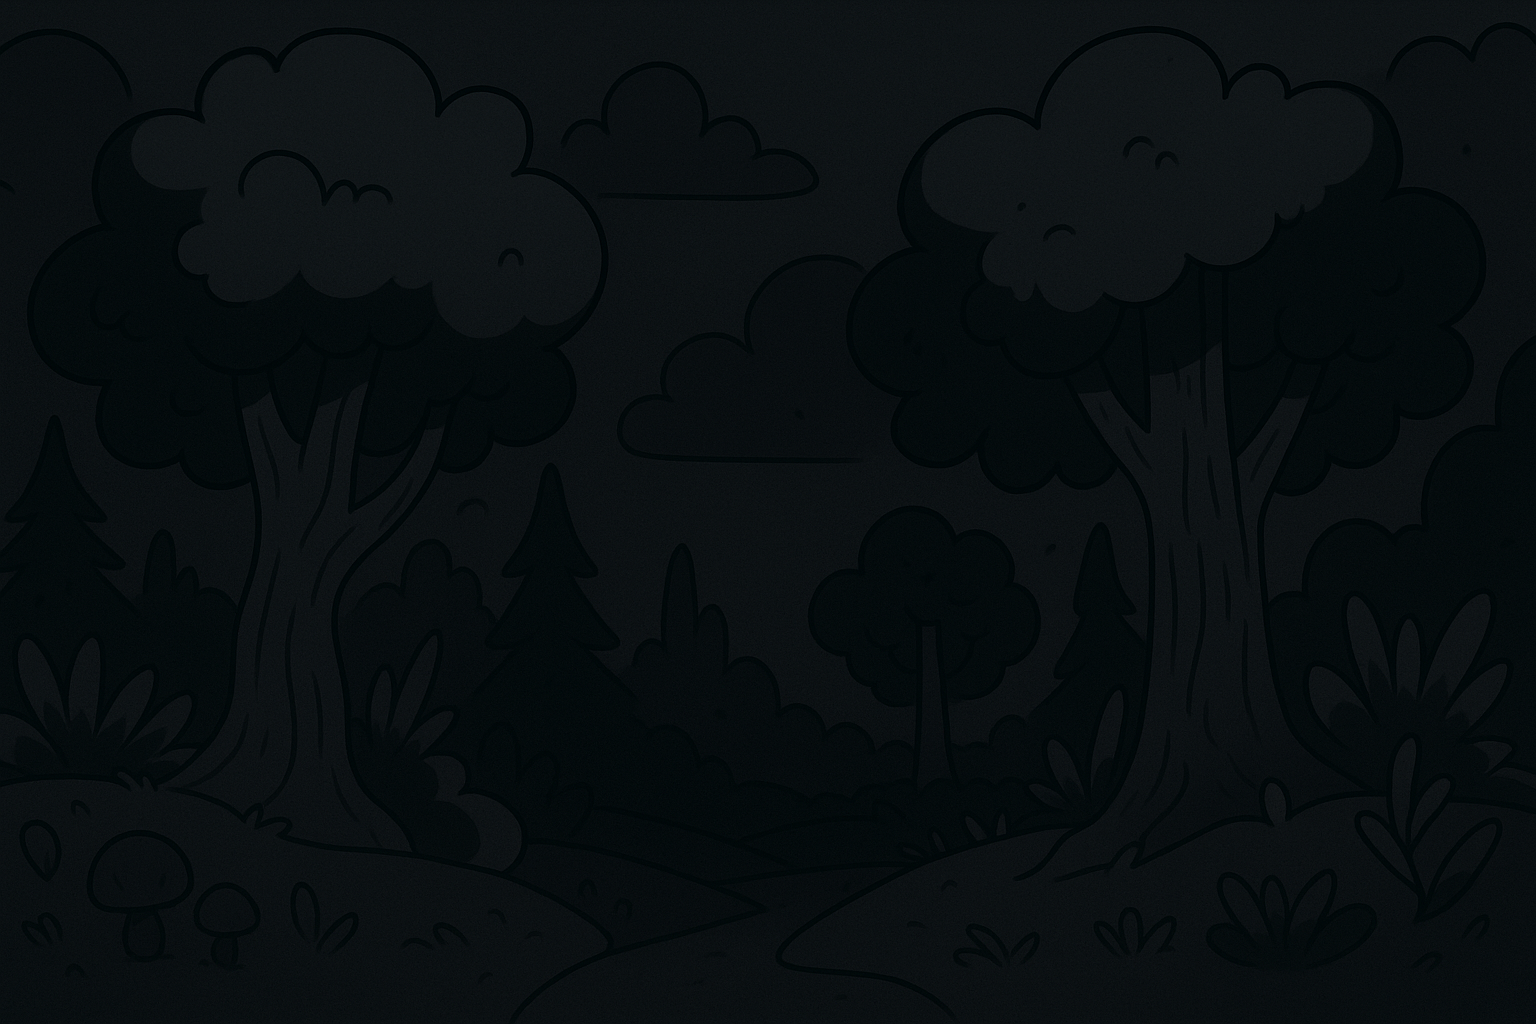
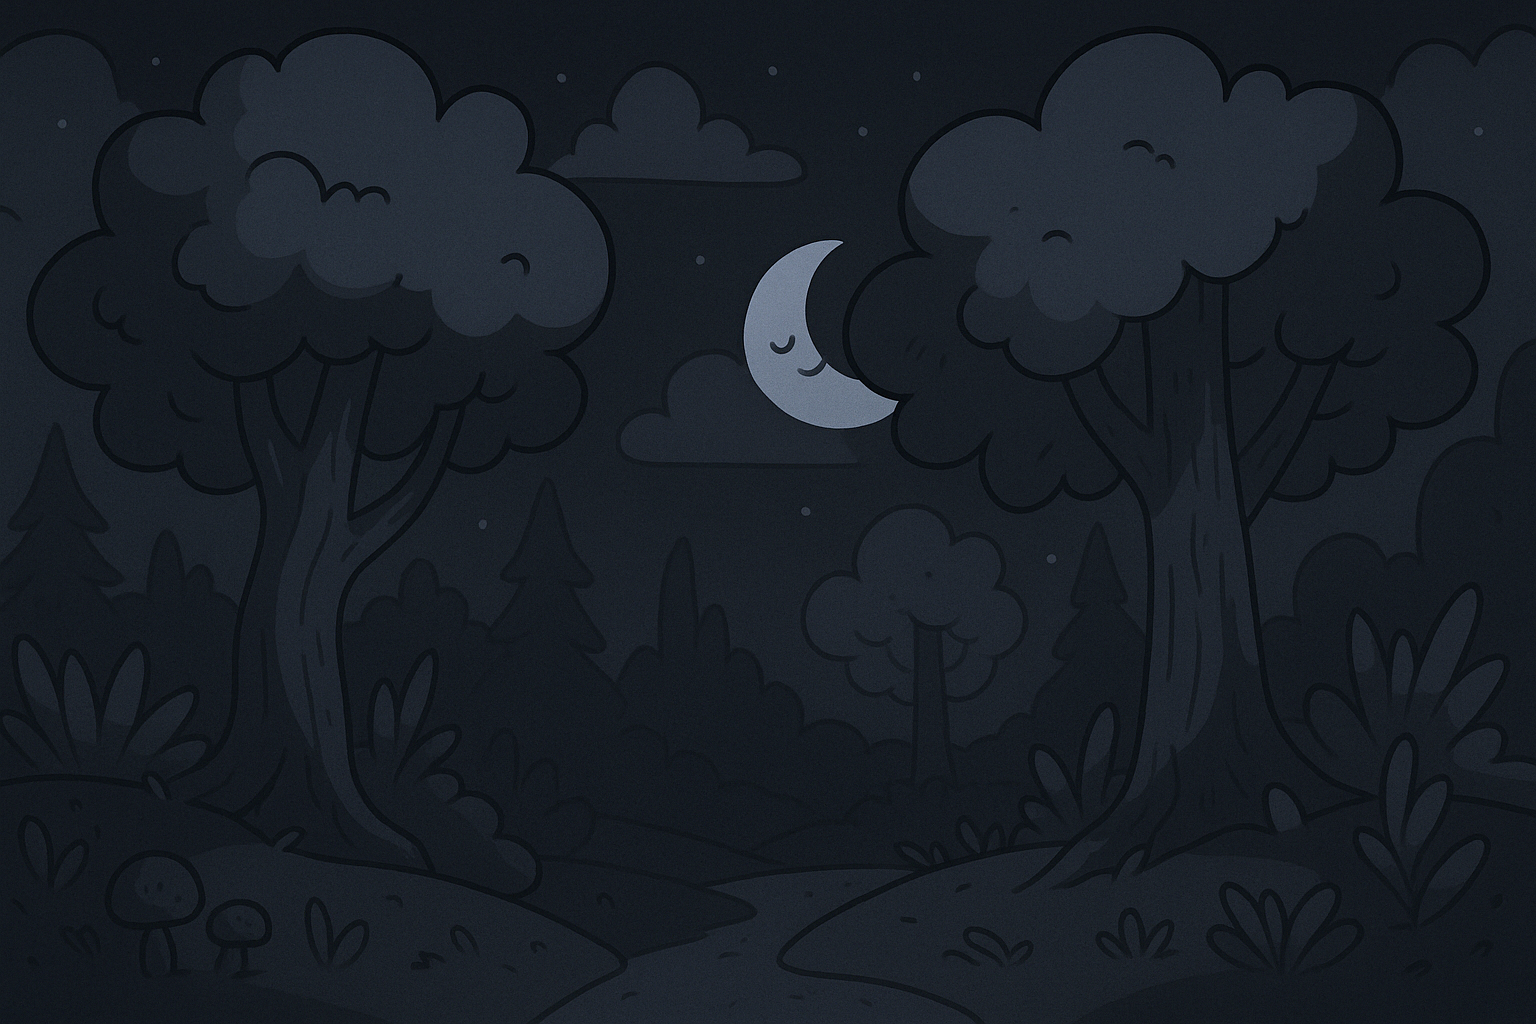
feat: Mudança no tema da aplicação!

diff --git a/frontend/src/pages/TodoList.vue b/frontend/src/pages/TodoList.vue
@@ -1,12 +1,14 @@
 <script setup lang="ts">
-import { onMounted, ref } from 'vue';
-import backgroundTodo from '../assets/backgroundTodo.png';
+import { onMounted, ref, watch } from 'vue';
+import backgroundLightTodo from '../assets/backgroundLightTodo.png';
+import backgroundDarkTodo from '../assets/backgroundDarkTodo.png';
 import { MagnifyingGlassIcon, ChevronDownIcon, TrashIcon } from '@heroicons/vue/24/outline';
 import { PlusIcon } from '@heroicons/vue/24/solid';
 import { Menu, MenuButton, MenuItems, MenuItem, Dialog } from '@headlessui/vue';
 import api from '../api/axios.js';
 import { useToast } from 'vue-toastification';
 import router from '@/router/index.js';
+import { useThemeStore } from '@/stores/theme.js';
 
 interface formCreateTodo {
   title: string;
@@ -14,6 +16,8 @@ interface formCreateTodo {
   dueData?: string | null;
 }
 
+const themeStore = useThemeStore();
+const bgImage = ref<string>();
 const toast = useToast();
 const dados = ref();
 const isOpen = ref(false);
@@ -22,6 +26,14 @@ const formCreateTodo = ref<formCreateTodo>({
   description: '',
   dueData: '',
 });
+
+watch(
+  () => themeStore.theme,
+  (newTheme) => {
+    bgImage.value = newTheme === 'light' ? backgroundLightTodo : backgroundDarkTodo;
+  },
+  { immediate: true }
+);
 
 onMounted(() => {
   searchTasks();
@@ -86,7 +98,6 @@ const handleCheckboxChange = async (event: Event, dado: any) => {
 
   try {
     await api.patch(`/todos/${dado.id}`, update);
-    toast.success('Tarefa atualizada com sucesso!');
     searchTasks();
   } catch (error) {
     toast.error('Erro ao atualizar tarefa');
@@ -102,7 +113,7 @@ function setIsOpen(value) {
   <v-app>
     <div
       class="relative flex min-h-screen w-full items-center justify-center overflow-hidden bg-cover bg-center"
-      :style="{ backgroundImage: `url(${backgroundTodo})` }"
+      :style="{ backgroundImage: `url(${bgImage})` }"
     >
       <div
         class="flex h-[100vh] w-full max-w-lg flex-col items-center rounded-xl bg-black/5 p-12 text-white backdrop-blur-lg"
@@ -114,45 +125,12 @@ function setIsOpen(value) {
         </div>
 
         <!-- Título de Tarefas -->
-        <h1 class="font-baloo mb-5 text-4xl font-semibold">Tarefas</h1>
+        <h1 class="font-baloo text-paragraph dark:text-background mb-5 text-5xl font-bold">
+          Tarefas
+        </h1>
 
         <!-- Pesquisa e Menu -->
         <div class="font-nunito flex w-full flex-row items-center justify-center gap-3">
-          <!-- Menu Dropdown -->
-          <Menu as="div" class="relative">
-            <MenuButton
-              class="inline-flex items-center rounded-md bg-black/20 px-4 py-2 text-sm font-medium text-white hover:bg-black/30 focus:outline-none"
-            >
-              Menu
-              <ChevronDownIcon class="ml-2 h-5 w-5" />
-            </MenuButton>
-            <MenuItems
-              class="absolute right-0 z-50 mt-2 w-40 origin-top-right divide-y divide-gray-100 rounded-md bg-white shadow-lg ring-1 ring-black/5 focus:outline-none"
-            >
-              <div class="px-1 py-1">
-                <MenuItem v-slot="{ active }">
-                  <button
-                    :class="[
-                      active ? 'bg-violet-500 text-white' : 'text-gray-900',
-                      'group flex w-full items-center rounded-md px-2 py-2 text-sm',
-                    ]"
-                  >
-                    Perfil
-                  </button>
-                </MenuItem>
-                <MenuItem v-slot="{ active }">
-                  <button
-                    :class="[
-                      active ? 'bg-violet-500 text-white' : 'text-gray-900',
-                      'group flex w-full items-center rounded-md px-2 py-2 text-sm',
-                    ]"
-                  >
-                    Configurações
-                  </button>
-                </MenuItem>
-              </div>
-            </MenuItems>
-          </Menu>
 
           <!-- Pesquisar -->
           <div class="relative w-full">
@@ -160,7 +138,7 @@ function setIsOpen(value) {
               class="pointer-events-none absolute top-1/2 left-3 h-5 w-5 -translate-y-1/2 transform text-white"
             />
             <input
-              class="w-full rounded-full border border-stone-500 bg-black/10 py-1 ps-10 text-white hover:border-violet-400 hover:bg-black/20 focus:bg-purple-500/10"
+              class="border-DarkOrange hover:border-paragraph dark:border-darkSecondary w-full rounded-full border bg-black/10 py-1 ps-10 text-white hover:bg-black/15 focus:border-2 focus:outline-none hover:dark:border-purple-500"
               type="text"
               placeholder="Pesquisar"
             />
@@ -172,34 +150,40 @@ function setIsOpen(value) {
           <div
             v-for="(dado, index) in dados"
             :key="index"
-            class="mb-4 flex h-[5vh] w-full flex-row items-center justify-between gap-3 rounded-xl bg-neutral-700 ps-4"
+            class="bg-background dark:bg-darkBackground mb-4 flex h-[5vh] w-full flex-row items-center justify-between gap-3 rounded-xl ps-4"
           >
             <div class="flex w-full flex-row items-center justify-start gap-3 overflow-hidden">
               <input
                 type="checkbox"
-                class="h-5 w-5 accent-purple-500"
+                class="accent-DarkOrange dark:accent-darkSecondary h-6 w-6 hover:scale-105 focus:border-0"
                 :value="dado.id"
                 :checked="dado.done"
                 @change="handleCheckboxChange($event, dado)"
               />
               <h3
-                class="font-nunito max-w-[80%] truncate overflow-hidden text-xl font-semibold whitespace-nowrap"
+                class="font-nunito text-paragraph dark:text-background max-w-[80%] truncate overflow-hidden text-xl font-semibold whitespace-nowrap"
               >
                 {{ dado.title }}
               </h3>
             </div>
-            <TrashIcon @click="handleDelete(dado)" class="me-3 h-5 w-5" />
+            <TrashIcon
+              @click="handleDelete(dado)"
+              class="me-3 h-6 w-6 cursor-pointer text-red-500 hover:scale-110 hover:text-red-600"
+            />
           </div>
         </div>
 
         <!-- Icone de Adicionar tarefas -->
         <div
-          class="absolute right-10 bottom-10 flex h-8 w-8 items-center justify-center rounded-full bg-purple-500 hover:scale-110 hover:bg-purple-600 active:bg-violet-700 sm:h-8 sm:w-8 md:h-10 md:w-10 lg:h-12 lg:w-12"
+          class="bg-secondary dark:bg-darkSecondary active:bg-paragraph absolute right-10 bottom-10 flex h-8 w-8 cursor-pointer items-center justify-center rounded-full transition hover:scale-115 sm:h-8 sm:w-8 md:h-10 md:w-10 lg:h-12 lg:w-12 active:dark:bg-violet-700"
           @click="addTask()"
         >
-          <PlusIcon class="h-8 w-8 sm:h-6 sm:w-6 md:h-8 md:w-8 lg:h-9 lg:w-9" />
+          <PlusIcon
+            class="text-paragraph dark:text-background h-8 w-8 sm:h-6 sm:w-6 md:h-8 md:w-8 lg:h-9 lg:w-9"
+          />
         </div>
 
+        <!-- Modal de adicionar tarefa -->
         <Dialog :open="isOpen" @close="setIsOpen" class="relative z-50">
           <div class="fixed inset-0 bg-black/30" aria-hidden="true" />
 
@@ -208,18 +192,21 @@ function setIsOpen(value) {
               class="flex w-full max-w-md flex-col items-center justify-center gap-4 rounded bg-white p-6 text-black"
             >
               <input
-                class="w-full rounded-lg border border-stone-500 py-2 ps-3"
+                class="border-paragraph dark:border-darkSecondary focus:border-secondary focus:dark:border-darkSecondary w-full rounded-xl border bg-black/10 py-2 ps-4 hover:border-amber-800 hover:bg-white/5 focus:border-3 focus:outline-none"
                 v-model="formCreateTodo.title"
                 type="text"
                 placeholder="Digite o título da tarefa"
               />
               <div class="flex flex-row justify-center gap-4">
-                <button class="rounded-full bg-stone-500 px-3 py-1 font-semibold text-white">
+                <button
+                  @click="setIsOpen(false)"
+                  class="dark:bg-darkBackground rounded-full bg-stone-500 px-3 py-1 font-semibold text-white hover:scale-105"
+                >
                   Voltar
                 </button>
                 <button
                   @click="createTask()"
-                  class="rounded-full bg-purple-500 px-3 py-1 font-semibold text-white"
+                  class="bg-paragraph text-background dark:bg-darkSecondary rounded-full px-3 py-1 font-semibold hover:scale-105"
                 >
                   Adicionar tarefa
                 </button>

diff --git a/frontend/src/pages/Login.vue b/frontend/src/pages/Login.vue
@@ -130,7 +130,7 @@ const toggleForm = () => {
                   >E-mail</label
                 >
                 <input
-                  class="border-paragraph dark:border-darkParagraph rounded-xl border bg-black/10 py-2 ps-4 hover:border-amber-800 hover:bg-white/5 focus:bg-purple-500/10"
+                  class="border-paragraph dark:border-darkParagraph rounded-xl border bg-black/10 py-2 ps-4 hover:border-amber-800 hover:bg-white/5 focus:bg-purple-500/10 focus:outline-none focus:border-3"
                   v-model="formLogin.email"
                   type="email"
                   placeholder="Digite seu email"
@@ -141,7 +141,7 @@ const toggleForm = () => {
                   >Senha</label
                 >
                 <input
-                  class="border-paragraph dark:border-darkParagraph rounded-xl border bg-black/10 py-2 ps-4 hover:border-amber-800 hover:bg-white/5 focus:bg-purple-500/10"
+                  class="border-paragraph dark:border-darkParagraph rounded-xl border bg-black/10 py-2 ps-4 hover:border-amber-800 hover:bg-white/5 focus:bg-purple-500/10 focus:outline-none focus:border-3"
                   v-model="formLogin.password"
                   type="password"
                   placeholder="Digite sua senha"
@@ -189,7 +189,7 @@ const toggleForm = () => {
                   >E-mail</label
                 >
                 <input
-                  class="border-paragraph dark:border-darkParagraph rounded-xl border bg-black/10 py-2 ps-4 hover:border-amber-800 hover:bg-white/5 focus:bg-purple-500/10"
+                  class="border-paragraph dark:border-darkParagraph rounded-xl border bg-black/10 py-2 ps-4 hover:border-amber-800 hover:bg-white/5 focus:bg-purple-500/10 focus:outline-none focus:border-3"
                   v-model="formSignUp.email"
                   type="email"
                   placeholder="Digite seu email"
@@ -201,7 +201,7 @@ const toggleForm = () => {
                   >Senha</label
                 >
                 <input
-                  class="border-paragraph dark:border-darkParagraph rounded-xl border bg-black/10 py-2 ps-4 hover:border-amber-800 hover:bg-white/5 focus:bg-purple-500/10"
+                  class="border-paragraph dark:border-darkParagraph rounded-xl border bg-black/10 py-2 ps-4 hover:border-amber-800 hover:bg-white/5 focus:bg-purple-500/10 focus:outline-none focus:border-3"
                   v-model="formSignUp.password"
                   type="password"
                   placeholder="Digite sua senha"
@@ -213,7 +213,7 @@ const toggleForm = () => {
                   >Confirmar senha</label
                 >
                 <input
-                  class="border-paragraph dark:border-darkParagraph rounded-xl border bg-black/10 py-2 ps-4 hover:border-amber-800 hover:bg-white/5 focus:bg-purple-500/10"
+                  class="border-paragraph dark:border-darkParagraph rounded-xl border bg-black/10 py-2 ps-4 hover:border-amber-800 hover:bg-white/5 focus:bg-purple-500/10 focus:outline-none focus:border-3"
                   v-model="formSignUp.confirmPassword"
                   type="password"
                   placeholder="Confirme sua senha"
